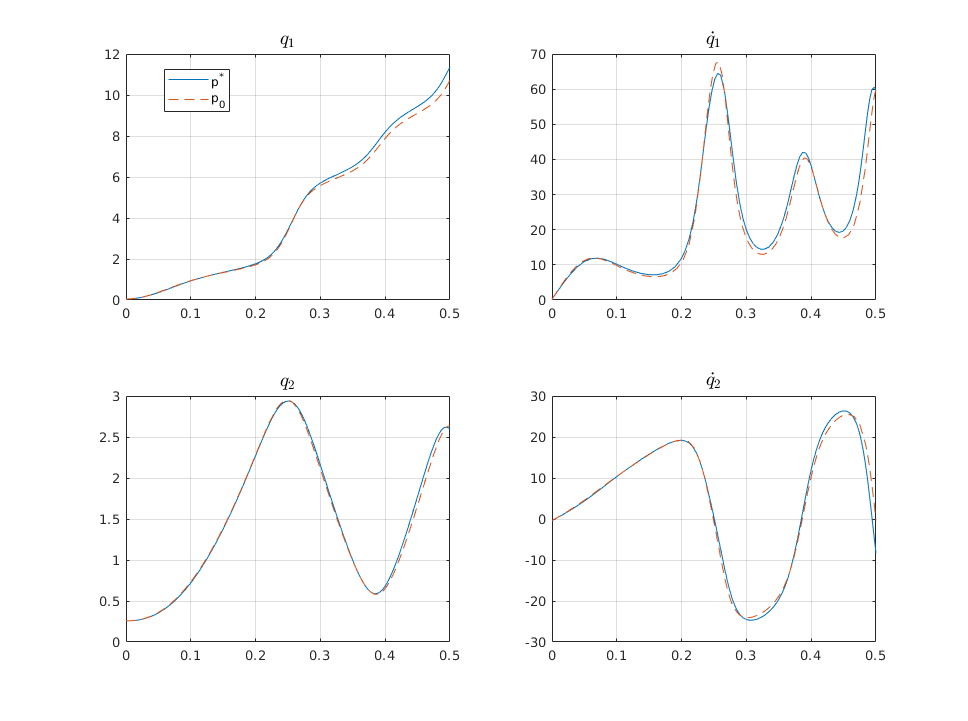
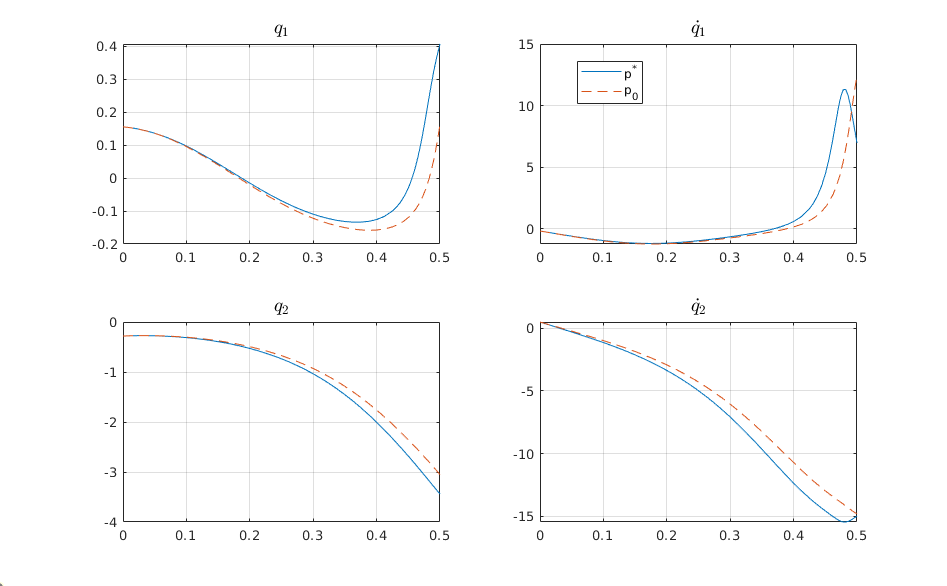
how to resolve nonzero torque input?

diff --git a/casadi/optiEnvelope.m b/casadi/optiEnvelope.m
@@ -31,7 +31,7 @@ g = P(end, 1);
 T = 0.5; % final time
 
 % ---- objective ----
-opti.minimize(sum(sum(q))); % minimal end state
+opti.minimize(sum(sum(qd))); % minimal end state
 
 % ---- dynamic constraints ----
 f = CasadiForwardDynamics(robot);
@@ -39,9 +39,8 @@ f = CasadiForwardDynamics(robot);
 dt = T/N; % length of a control interval
 for k=1:N % loop over control intervals
 %     opti.subject_to(U(:, k) == zeros(NumBodies, 1)); % specify torque input
-%     Uk = cos(dt*k).*ones(NumBodies,1);
-    Uk = zeros(NumBodies, 1);
-    disp(Uk);
+    Uk = cos(dt*k).*ones(NumBodies,1);
+%     Uk = zeros(NumBodies, 1);
     % Runge-Kutta 4 integration
     k1 = f('x', X(:,k),              'u', Uk, 'p', P);
     k2 = f('x', X(:,k)+dt/2*k1.xdot, 'u', Uk, 'p', P);
@@ -84,10 +83,10 @@ sol = opti.solve();
 %% ---- plot ----
 params_opt = sol.value(P);
 % ode result of optimal parameters
-[t, y] = ode45(@(t,y) full(f(y, cos(t)*ones(NumBodies, 1), params_opt)), ...
+[t, y] = ode45(@(t,y) full(f(y, cos(t)*zeros(NumBodies, 1), params_opt)), ...
     [0 T], state_init);
 % ode result of original parameters
-[t1, y1] = ode45(@(t1,y1) full(f(y1, cos(t1)*ones(NumBodies, 1), [params; 9.8])), ...
+[t1, y1] = ode45(@(t1,y1) full(f(y1, cos(t1)*zeros(NumBodies, 1), [params; 9.8])), ...
     [0 T], state_init);
 for i = 1:NumBodies
     n = NumBodies;
